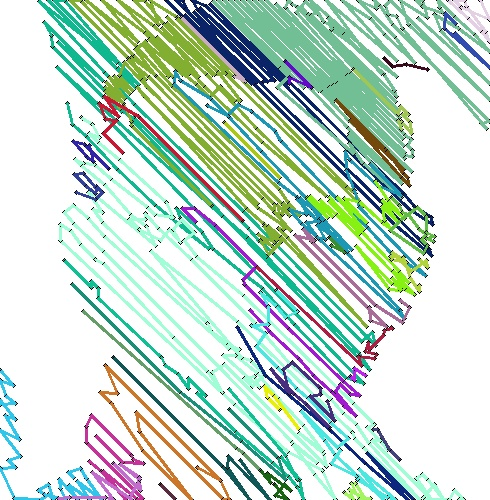
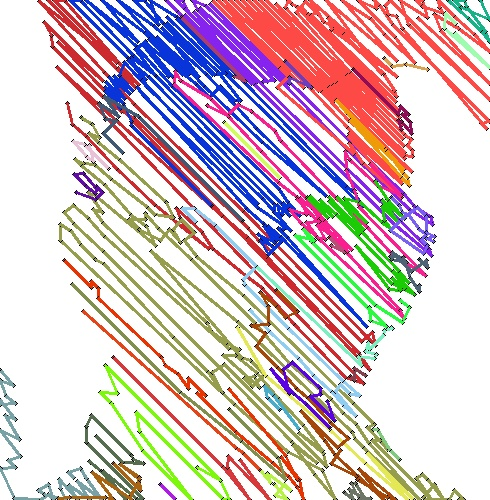
e

diff --git a/main.py b/main.py
@@ -105,10 +105,10 @@ def main():
 
 
 
-    segments, freq = segments, freq = process_face("img.png", blur_radius = 17, lower_thresh = 0,
-    upper_thresh = 40, splitDistance = 10, areaCut = 4,
-    minSegmentLen = 15, max_accel = 40, max_lr = 1, turn_vel_multiplier = 1,
-    freq = 120)
+    segments, freq = segments, freq = process_faceprocess_face(filename, blur_radius = 17, lower_thresh = 0,
+        upper_thresh = 40, splitDistance = 20, areaCut = 10,
+        minSegmentLen = 15, max_accel = 2, max_lr = .02, turn_vel_multiplier = 1,
+        freq = 60, plot_steps = False)
 
 
     gantry = gantry.Gantry()
